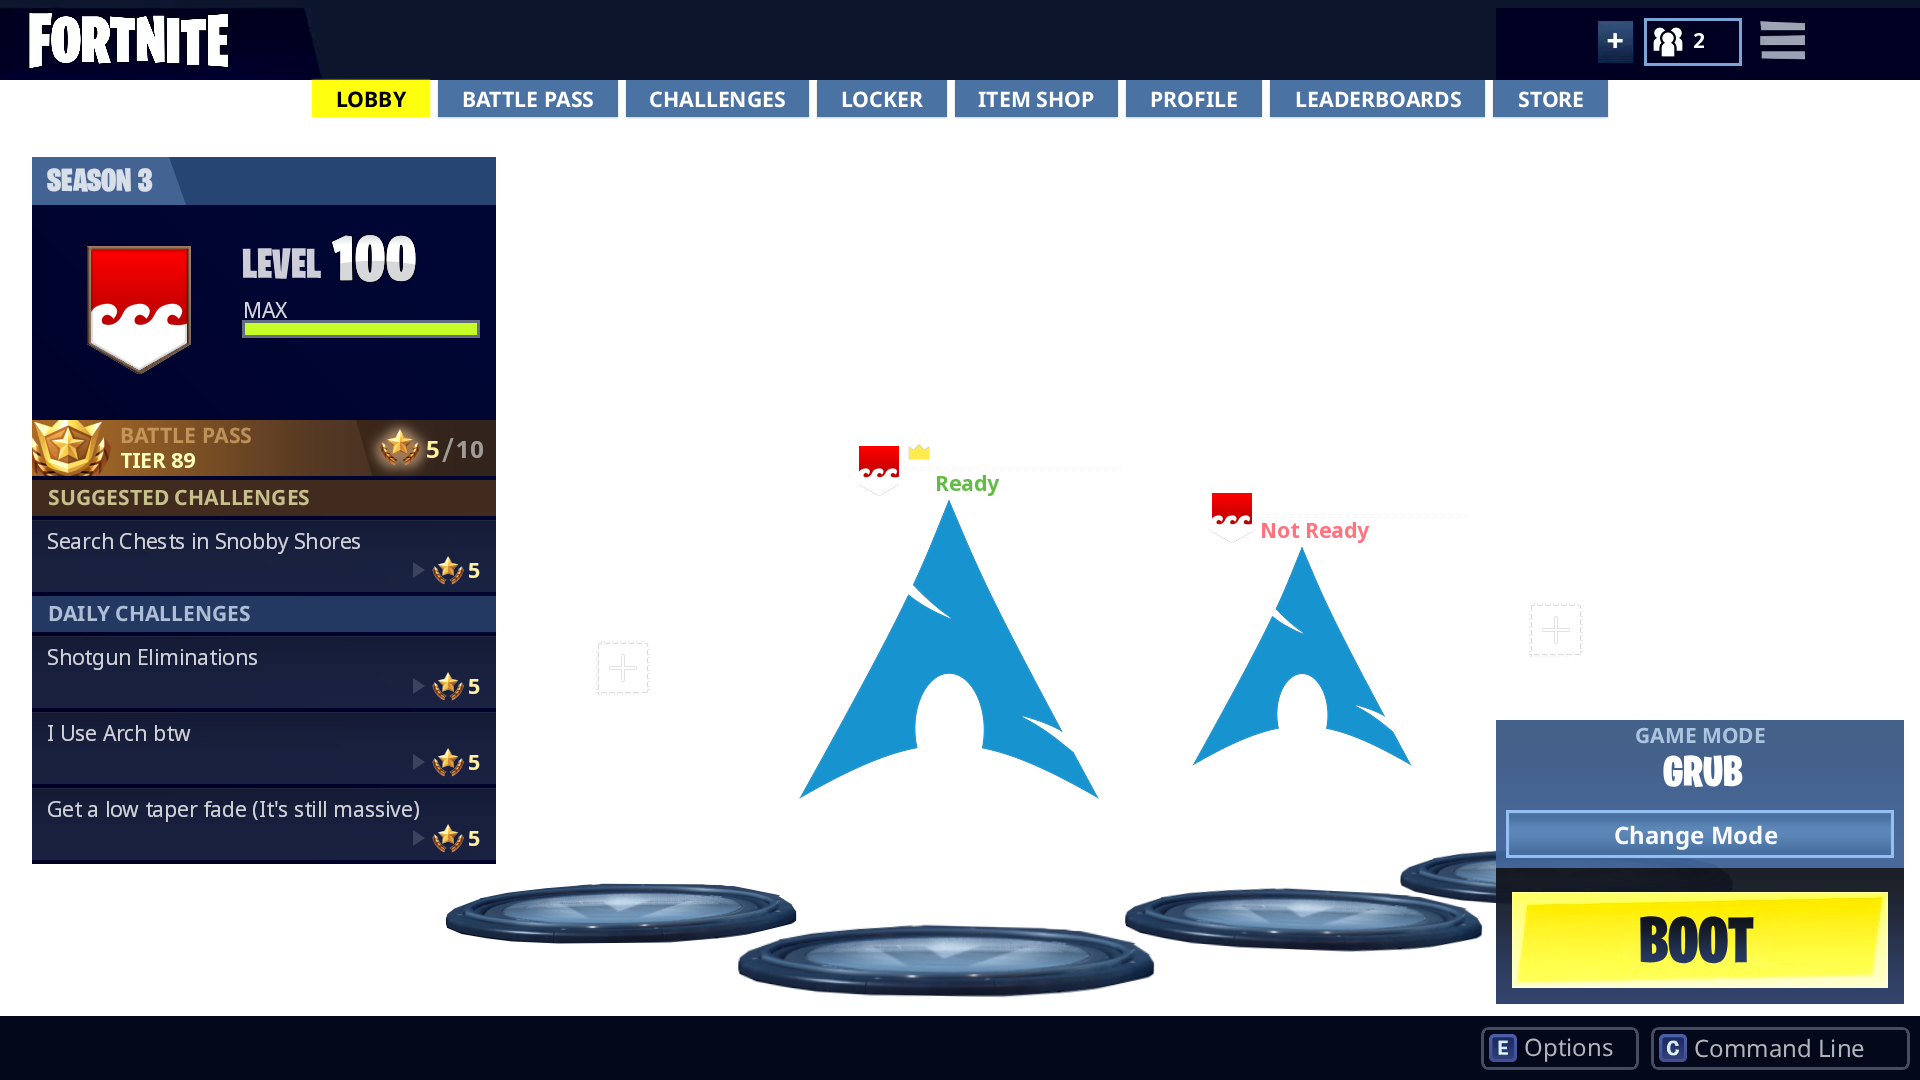
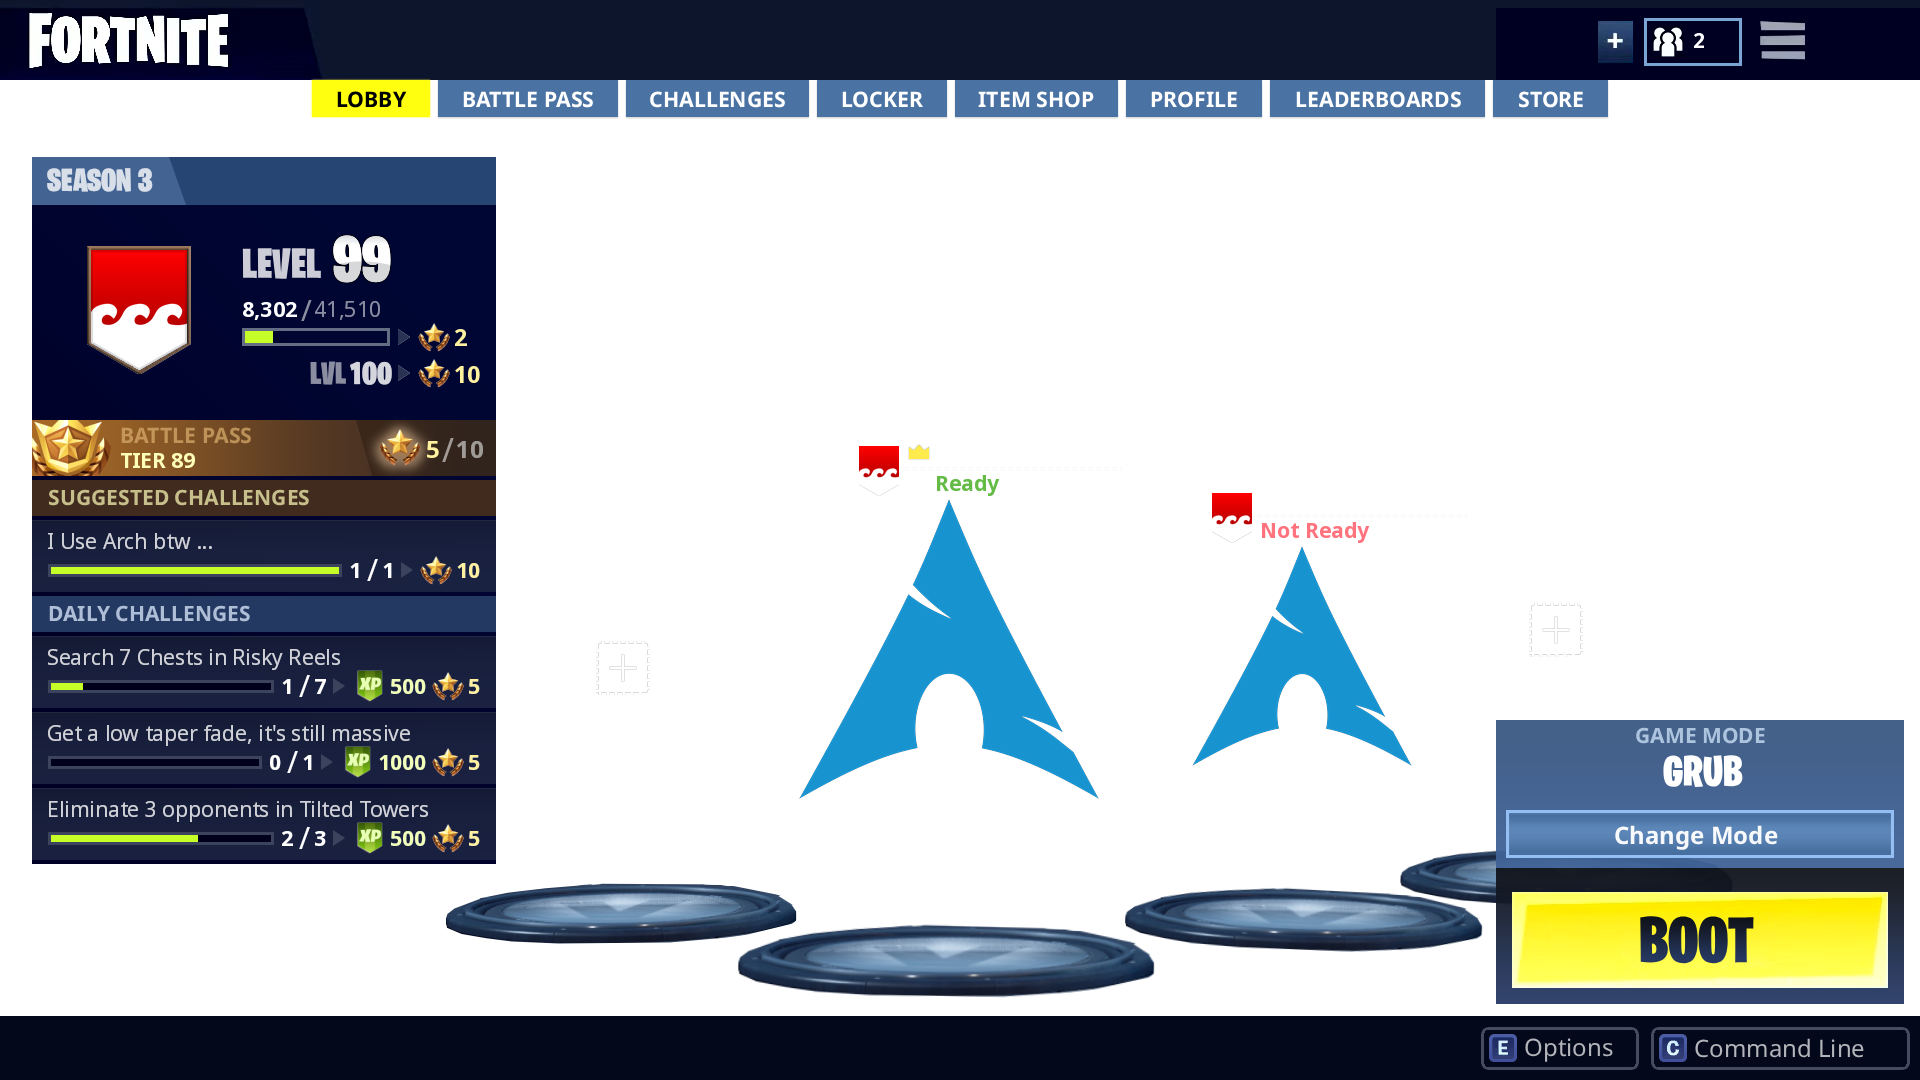
Added mission configuration

diff --git a/scripts/modifiers/insert_missions.py b/scripts/modifiers/insert_missions.py
@@ -7,14 +7,15 @@ def add_missions(config, img):
     missions = config.get("missions", {})
     star_icon = load_image(os.path.join(IMAGES_DIR, "level-star-exp.png")).convert("RGBA")
     arrow_icon = load_image(os.path.join(IMAGES_DIR, "level-arrow.png")).convert("RGBA")
+    xp_icon = load_image(os.path.join(IMAGES_DIR, "xp-banner.png")).convert("RGBA")
 
     for mission_type, mission_info in missions.items():
-        add_mission(mission_type, img, mission_info, star_icon, arrow_icon)
+        add_mission(mission_type, img, mission_info, star_icon, arrow_icon, xp_icon)
 
     return img
 
 
-def add_mission(mission_type, img, config, star_icon, arrow_icon): 
+def add_mission(mission_type, img, config, star_icon, arrow_icon, xp_icon): 
     # Initialize the drawing context
     draw = ImageDraw.Draw(img)
     
@@ -50,7 +51,7 @@ def add_mission(mission_type, img, config, star_icon, arrow_icon):
     
     # --- STEP 2: Draw Star Number and Icon ---
     font_star = ImageFont.truetype(os.path.join(FONTS_DIR, "NotoSans", "NotoSans-Bold.ttf"), 21)
-    star_number_text = "5"
+    star_number_text = str(config.get("star-reward", 2))
     star_number_color = "#fff19d"
     
     (left, top, right, bottom) = font_star.getbbox(star_number_text)
@@ -74,27 +75,120 @@ def add_mission(mission_type, img, config, star_icon, arrow_icon):
     star_icon_y = int(star_center_y - (star_icon.height / 2))
     
     img.paste(star_icon, (int(star_icon_x), star_icon_y), star_icon)
-    # --- STEP 3: Draw Arrow Icon ---
+    # --- STEP 3: Draw XP Parts ---
+    anchor_x = star_icon_x
+
+    if is_daily:
+        exp_text = str(config.get("xp-reward", 500))
+        font_exp = ImageFont.truetype(os.path.join(FONTS_DIR, "NotoSans", "NotoSans-Bold.ttf"), 21.1)
+        exp_color = "#f1ffb7"
+        
+        (e_left, e_top, e_right, e_bottom) = font_exp.getbbox(exp_text)
+        exp_width = e_right - e_left
+        
+        # Position: 6 px left of the star icon (our current anchor)
+        exp_x = anchor_x - 6 - exp_width
+        exp_y = ref_point[1] + 43 - e_top
+        
+        text_overlay = Image.new("RGBA", img.size, (0, 0, 0, 0))
+        overlay_draw = ImageDraw.Draw(text_overlay)
+        overlay_draw.text((exp_x, exp_y), exp_text, font=font_exp, fill=exp_color)
+        img.paste(text_overlay, (0, 0), text_overlay)
+        
+        # 2. XP Icon: 7 px left of the text
+        xp_icon_x = exp_x - 7 - xp_icon.width
+        xp_icon_y = int(star_center_y - (xp_icon.height / 2))
+        
+        img.paste(xp_icon, (int(xp_icon_x), xp_icon_y), xp_icon)
+        
+        anchor_x = xp_icon_x
+        
+
+    # --- STEP 4: Draw Arrow Icon ---
     # Distance is 7 px to the left of the star icon
-    arrow_icon_x = star_icon_x - 7 - arrow_icon.width
+    offset_arrow = 7 if not is_daily else 11
+    arrow_icon_x = anchor_x - offset_arrow - arrow_icon.width
     arrow_icon_y = int(star_center_y - (arrow_icon.height / 2))
     
     colored_arrow = Image.new("RGBA", arrow_icon.size, "#3c435d")
     
     img.paste(colored_arrow, (int(arrow_icon_x), arrow_icon_y), arrow_icon)
-    # ------------------------------
-    # TODO
-    # Then draw the current-stars/total-stars 7 px to the left. 
-    # For the numbers use font with 21.1
-    # For the slash use font with 30
-    # Center the numbers around the slash
-    # Distance from slash to number on the rigth is 4 px and to the left 6 px
+   # --- STEP 5: Current/Total Stars ---
+    font_numbers = ImageFont.truetype(os.path.join(FONTS_DIR, "NotoSans", "NotoSans-Bold.ttf"), 21.1)
+    font_slash = ImageFont.truetype(os.path.join(FONTS_DIR, "NotoSans", "NotoSans-Regular.ttf"), 30)
 
-    font = ImageFont.truetype(os.path.join(FONTS_DIR, "NotoSans", "NotoSans-Bold.ttf"), 21.1)
+    current_stars_text = str(config.get("current-stars", 3)) 
+    total_stars_text = str(config.get("total-stars", 5))
 
-    font = ImageFont.truetype(os.path.join(FONTS_DIR, "NotoSans", "NotoSans-Regular.ttf"), 30)
+    text_overlay = Image.new("RGBA", img.size, (0, 0, 0, 0))
+    overlay_draw = ImageDraw.Draw(text_overlay)
+    text_color = "#ffffff"
 
+    # 1. Total Stars (7 px left of the arrow)
+    (n_left, n_top, n_right, n_bottom) = font_numbers.getbbox(total_stars_text)
+    total_w = n_right - n_left
+    total_h = n_bottom - n_top
+    
+    total_x = arrow_icon_x - 7 - total_w
+    
+    total_y = ref_point[1] + 43 - n_top
+    
+    center_y = (ref_point[1] + 43) + (total_h / 2)
 
-    # Draw rectangle of 3 px border 3c435d color and fill with 00001d, width will be dynamic
-    # Distanced to the rigth number by 8 px.
-    # Should have the remaining width, with spacing of 16 px to the left of the container. Height should be 44 px down from the top.
+    overlay_draw.text((total_x, total_y), total_stars_text, font=font_numbers, fill=text_color)
+
+    (s_left, s_top, s_right, s_bottom) = font_slash.getbbox("/")
+    slash_w = s_right - s_left
+    slash_h = s_bottom - s_top
+    
+    slash_x = total_x - 4 - slash_w
+    
+    slash_top_ink = center_y - (slash_h / 2)
+    slash_y = slash_top_ink - s_top 
+    
+    overlay_draw.text((slash_x, slash_y), "/", font=font_slash, fill=text_color)
+
+    (c_left, c_top, c_right, c_bottom) = font_numbers.getbbox(current_stars_text)
+    current_w = c_right - c_left
+    
+    current_x = slash_x - 6 - current_w
+    current_y = ref_point[1] + 43 - c_top
+    
+    overlay_draw.text((current_x, current_y), current_stars_text, font=font_numbers, fill=text_color)
+
+    img.paste(text_overlay, (0, 0), text_overlay)
+    # --- STEP 6: Draw Progress Bar Rectangle ---
+    rect_right_x = current_x - 8
+    rect_left_x = ref_point[0] + 16
+    rect_y_top = ref_point[1] + 44
+    bar_height = 12 
+    rect_y_bottom = rect_y_top + bar_height
+
+    # 1. Draw the background/border rectangle
+    draw.rectangle(
+        [rect_left_x, rect_y_top, rect_right_x, rect_y_bottom],
+        fill="#00001d",
+        outline="#3c435d",
+        width=3
+    )
+    
+    current_val = float(current_stars_text)
+    total_val = float(total_stars_text)
+    
+    if total_val > 0 and current_val > 0:
+        current_val = min(current_val, total_val)
+        progress_ratio = current_val / total_val
+        
+        inner_left = rect_left_x + 3
+        inner_top = rect_y_top + 3
+        inner_bottom = rect_y_bottom - 3
+        max_inner_right = rect_right_x - 3
+        
+        max_inner_width = max_inner_right - inner_left
+        fill_width = max_inner_width * progress_ratio
+        inner_right = inner_left + fill_width
+        
+        draw.rectangle(
+            [inner_left, inner_top, inner_right, inner_bottom],
+            fill="#c6ff28"
+        )

diff --git a/scripts/core/setup_theme.py b/scripts/core/setup_theme.py
@@ -33,24 +33,33 @@ def run():
     
     config["missions"] = {
         "battlepass" : {
-            "description": "I Use Arch btw",
+            "description": "I Use Arch btw ...",
             "current-stars": 1,
-            "total-stars": 1
+            "total-stars": 1,
+            "star-reward": 10,
         },
         "daily1" : {
             "description": "Search 7 Chests in Risky Reels",
             "current-stars": 1,
-            "total-stars": 7
+            "total-stars": 7,
+            "star-reward": 5,
+            "xp-reward": 500
+
         },
         "daily2" : {
-            "description": "I Use Arch btw",
-            "current-stars": 2,
-            "total-stars": 3
+            "description": "Get a low taper fade, it's still massive",
+            "current-stars": 0,
+            "total-stars": 1,
+            "star-reward": 5,
+            "xp-reward": 1000
+
         },
         "daily3" : {
-            "description": "Get a low taper fade (It's still massive)",
-            "current-stars": 0,
-            "total-stars": 1
+            "description": "Eliminate 3 opponents in Tilted Towers",
+            "current-stars": 2,
+            "total-stars": 3,
+            "star-reward": 5,
+            "xp-reward": 500
         },
     }
 
